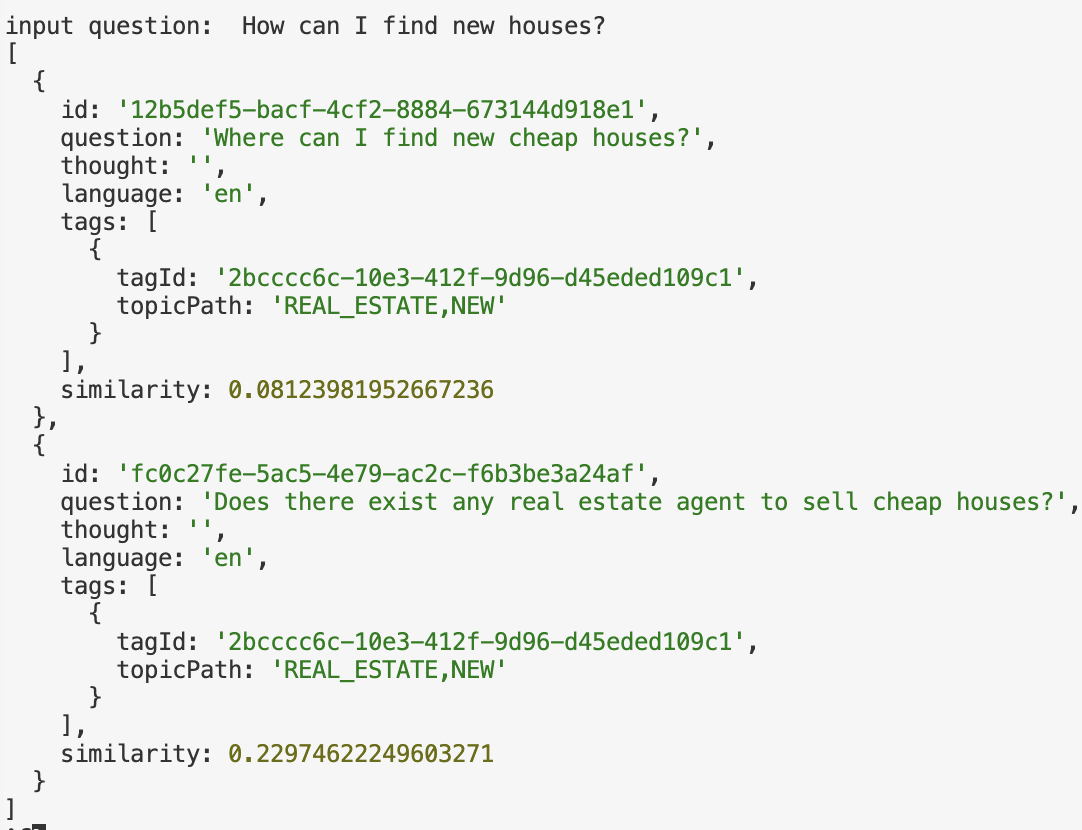
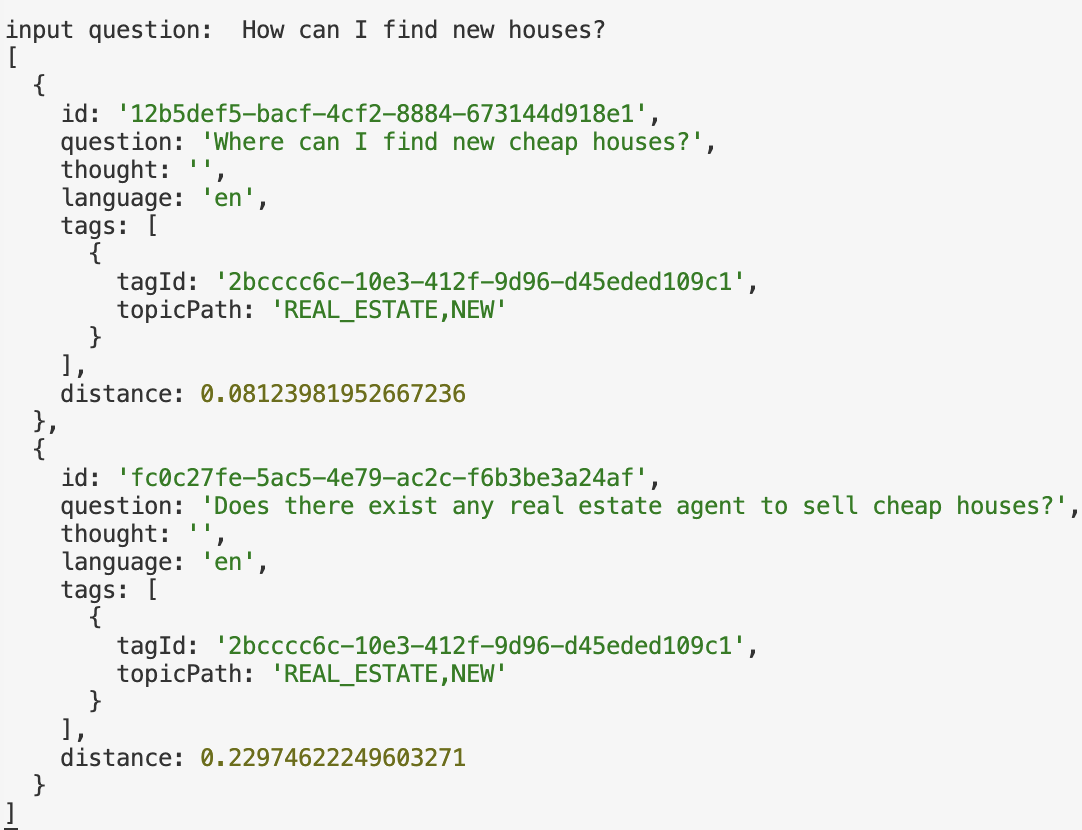
third commit

diff --git a/src/routes/question/helper.ts b/src/routes/question/helper.ts
@@ -171,15 +171,15 @@ async function searchRerankCloseQuestions (
     topic: string,
   subTopic: string
   }[],
-  config?: { minCosineSim?: number, rerankTopk?: number }
+  config?: { maxCosineDis?: number, rerankTopk?: number }
 ) {
-  const { minCosineSim = 0.6, rerankTopk = 8 } = config ?? {};
+  const { maxCosineDis = 0.6, rerankTopk = 8 } = config ?? {};
   const questions = await getCloseQuestionsByEmbedding(embedding, topicConfig);
-  const filteredQuestions = questions?.filter(it => Number(it.similarity) > minCosineSim);
+  const filteredQuestions = questions?.filter(it => Number(it.distance) < maxCosineDis);
   if (!filteredQuestions?.length || filteredQuestions.length === 1) {
     const firstEle = filteredQuestions[0];
     if (!firstEle) return [];
-    return [{ ...firstEle, jinaRelvence: Number(firstEle.similarity) }];
+    return [{ ...firstEle, jinaRelvence: 1 - Number(firstEle.distance) }];
   }
   const questionTexts = filteredQuestions.map(it => it.question);
   const rerankRes = await rerankByJina(question, questionTexts, rerankTopk);

diff --git a/src/db/question.management.ts b/src/db/question.management.ts
@@ -35,7 +35,7 @@ export function getCloseQuestionsByEmbedding (embedding: number[], topicConfig: 
     thought: QuestionSchema.thought_text,
     language: QuestionSchema.language,
     tags: QuestionSchema.tags,
-    similarity: cosineDistance(QuestionSchema.question_embedding, embedding),
+    distance: cosineDistance(QuestionSchema.question_embedding, embedding),
   })
   .from(QuestionSchema)
   .where(arrayOverlaps(QuestionSchema._topic_path_list, topicPathList))
